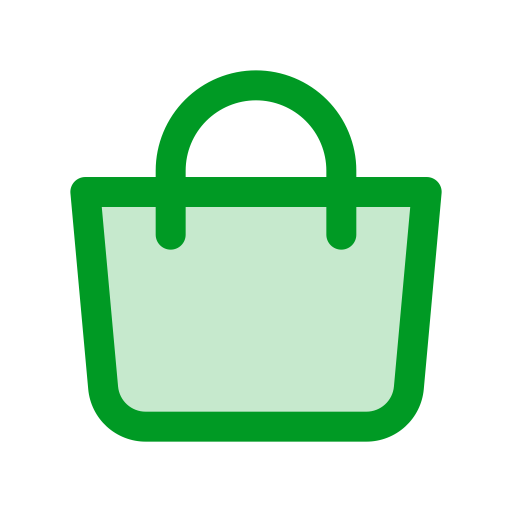
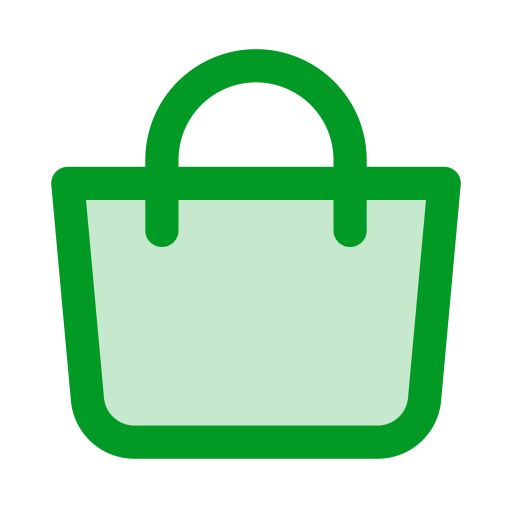
Enlarge the bag and drop the notification's large image
Two things Juan asked for once the icons finally rendered as themselves.

The bag now fills 80% of the width instead of 59%. That is the ceiling,
not a preference: Android masks the icon into a circle, and the bottom
left corner of the bag is the point of the stroke furthest from centre —
past 80% the mask starts eating it. It also sits 2 units above the
geometric centre, because the handle weighs less than the body and
centring by bounding box reads as sagging.

It's composed as a transform over the original paths rather than a
re-export, so every size is still rasterised from the vector. The
favicon's PNG link now points at the 192 rather than the 410, which was
only ever the notification's size.

The large image is out of the notification again. It was there because
the header circle was showing Vite's logo, so nothing was being
repeated. Installing the app properly fixed that — Chrome reads the
manifest icon for an installed app, which is why nothing done from the
page itself ever moved it — so the bag was showing twice.

Changed region(s): [[0.0938, 0.0938, 0.9062, 0.9062], [0.2812, 0.375, 0.7188, 0.5]]

diff --git a/public/sw.js b/public/sw.js
@@ -27,20 +27,20 @@ self.addEventListener('push', event => {
 		self.registration.showNotification(notice.title, {
 			body: notice.body,
 			lang: 'es',
-			// La imagen grande de la derecha. Es lo único del aviso que decide
-			// la app: el icono del círculo de la cabecera lo saca Chrome de su
-			// caché de iconos por origen, y ahí no llega ninguna API — se
-			// intentaron el manifest, un favicon PNG con URL nueva y rehacer la
-			// suscripción, y siguió mostrando el logo que tenía guardado.
+			// Sin `icon`: esa opción es la imagen grande de la derecha, y
+			// repetía la bolsa que ya sale en la cabecera del aviso. En su hueco
+			// Chrome pinta un monograma gris con la inicial del sitio; vacío no
+			// puede quedarse.
 			//
-			// Sin esto la casilla no queda vacía: Chrome se inventa un monograma
-			// gris con la inicial del sitio.
+			// El icono de la cabecera no se declara aquí: sale del manifest, y
+			// sólo desde que la app está instalada. Mientras fue un acceso
+			// directo suelto, Chrome usaba el favicon que tenía cacheado para el
+			// origen y no había forma de moverlo desde la web.
 			//
-			// No se pone `badge` (el glifo de la barra de estado): Android lo
-			// pinta en monocromo a partir del alfa, y esta bolsa, que tiene
+			// Tampoco se pone `badge` (el glifo de la barra de estado): Android
+			// lo pinta en monocromo a partir del alfa, y esta bolsa, que tiene
 			// relleno opaco, saldría maciza y sin el contorno que la hace
 			// reconocible.
-			icon: '/icono.png',
 			// El tag hace que un aviso sustituya al anterior del mismo tipo en vez
 			// de apilarse: si el resumen del lunes sigue sin leerse el lunes
 			// siguiente, no quedan dos.

diff --git a/index.html b/index.html
@@ -7,7 +7,7 @@
 		     icono de las notificaciones, y además cachea los favicons por URL,
 		     así que apuntar a un fichero nuevo es lo que le obliga a soltar el
 		     que tenía guardado de antes. -->
-		<link rel="icon" type="image/png" sizes="410x410" href="/icono.png" />
+		<link rel="icon" type="image/png" sizes="192x192" href="/icono-192.png" />
 		<!-- El manifest está aquí por el icono de las notificaciones, no por
 		     instalar la app: el círculo que Chrome pone a la izquierda del aviso
 		     lo saca de aquí, y del favicon no puede porque es un SVG. -->
